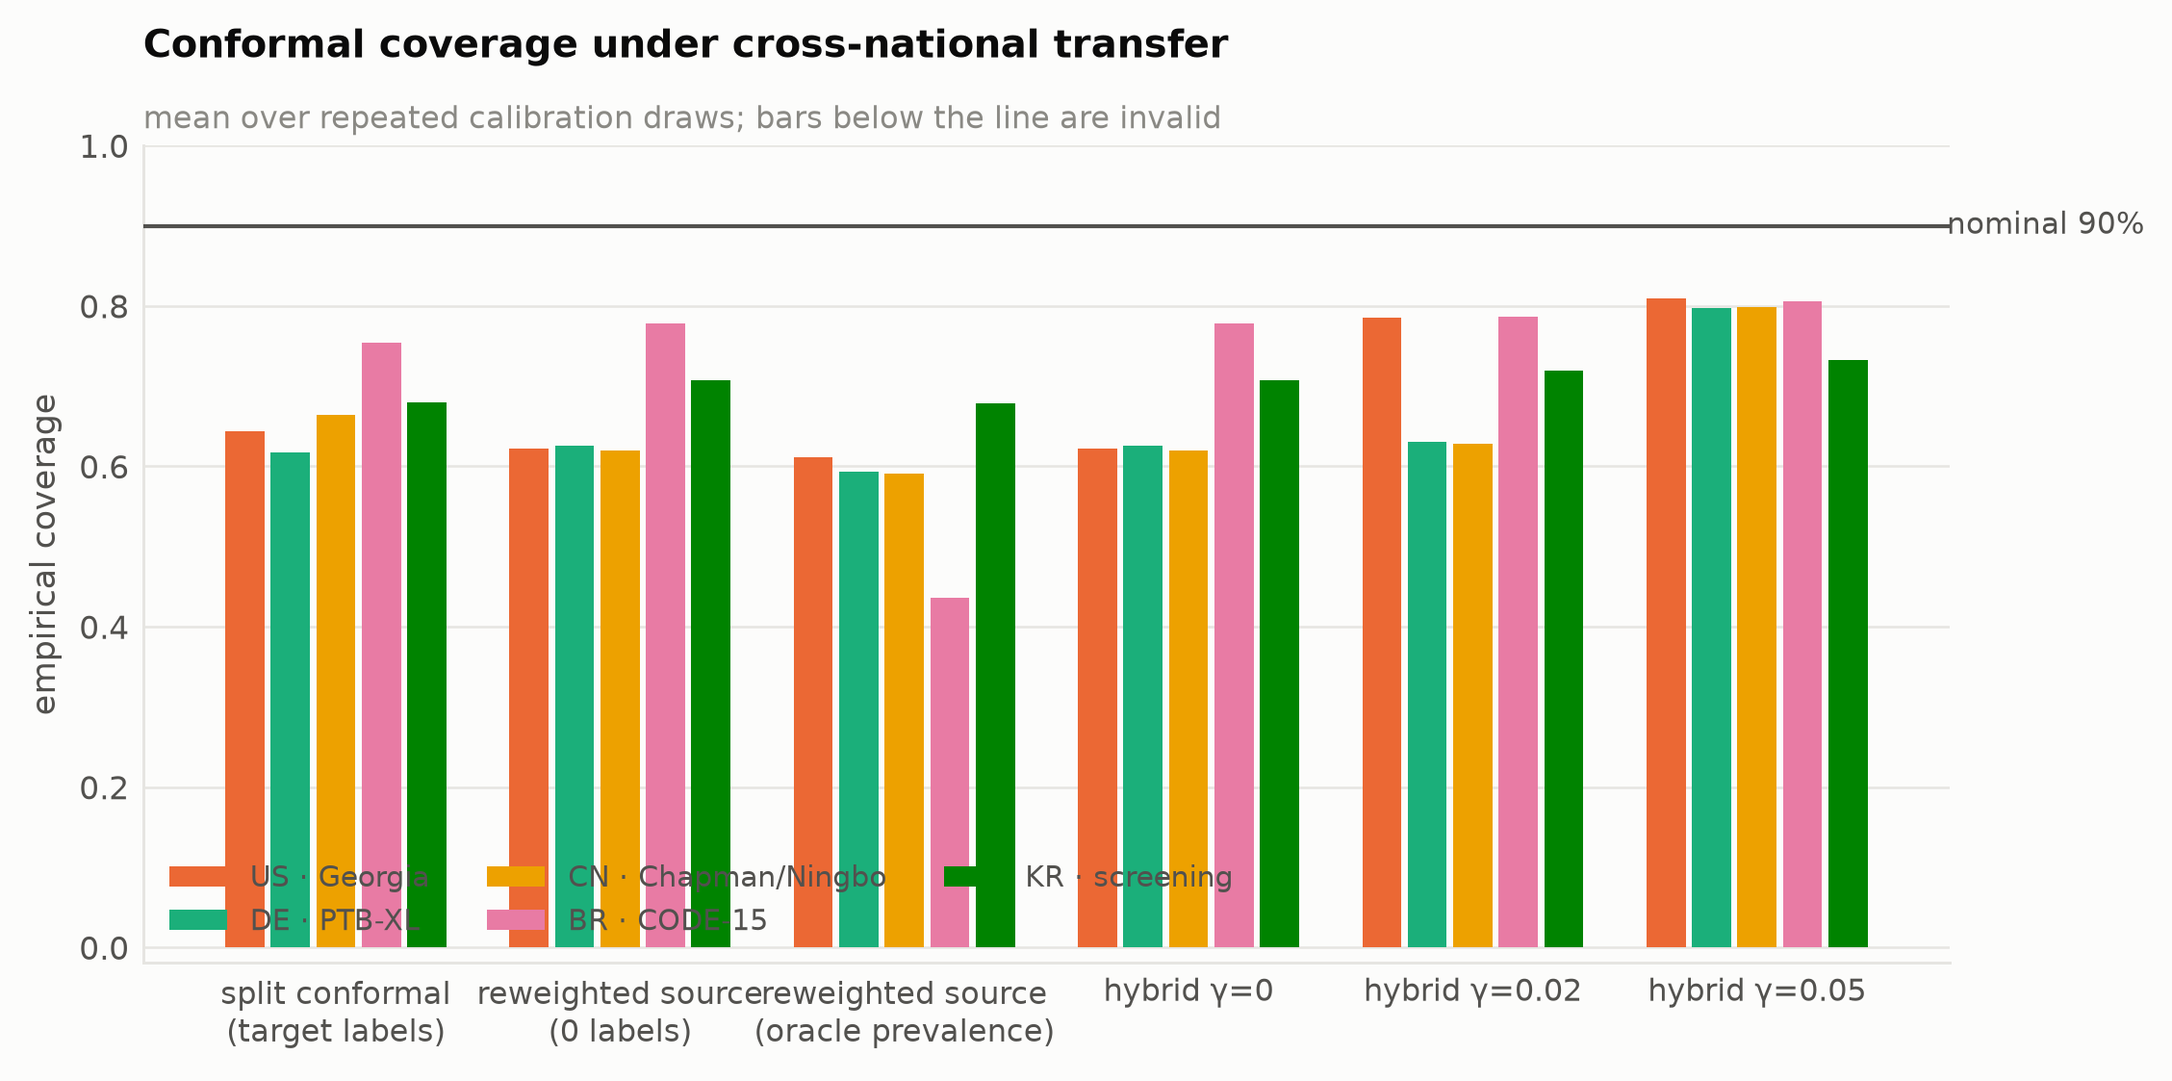
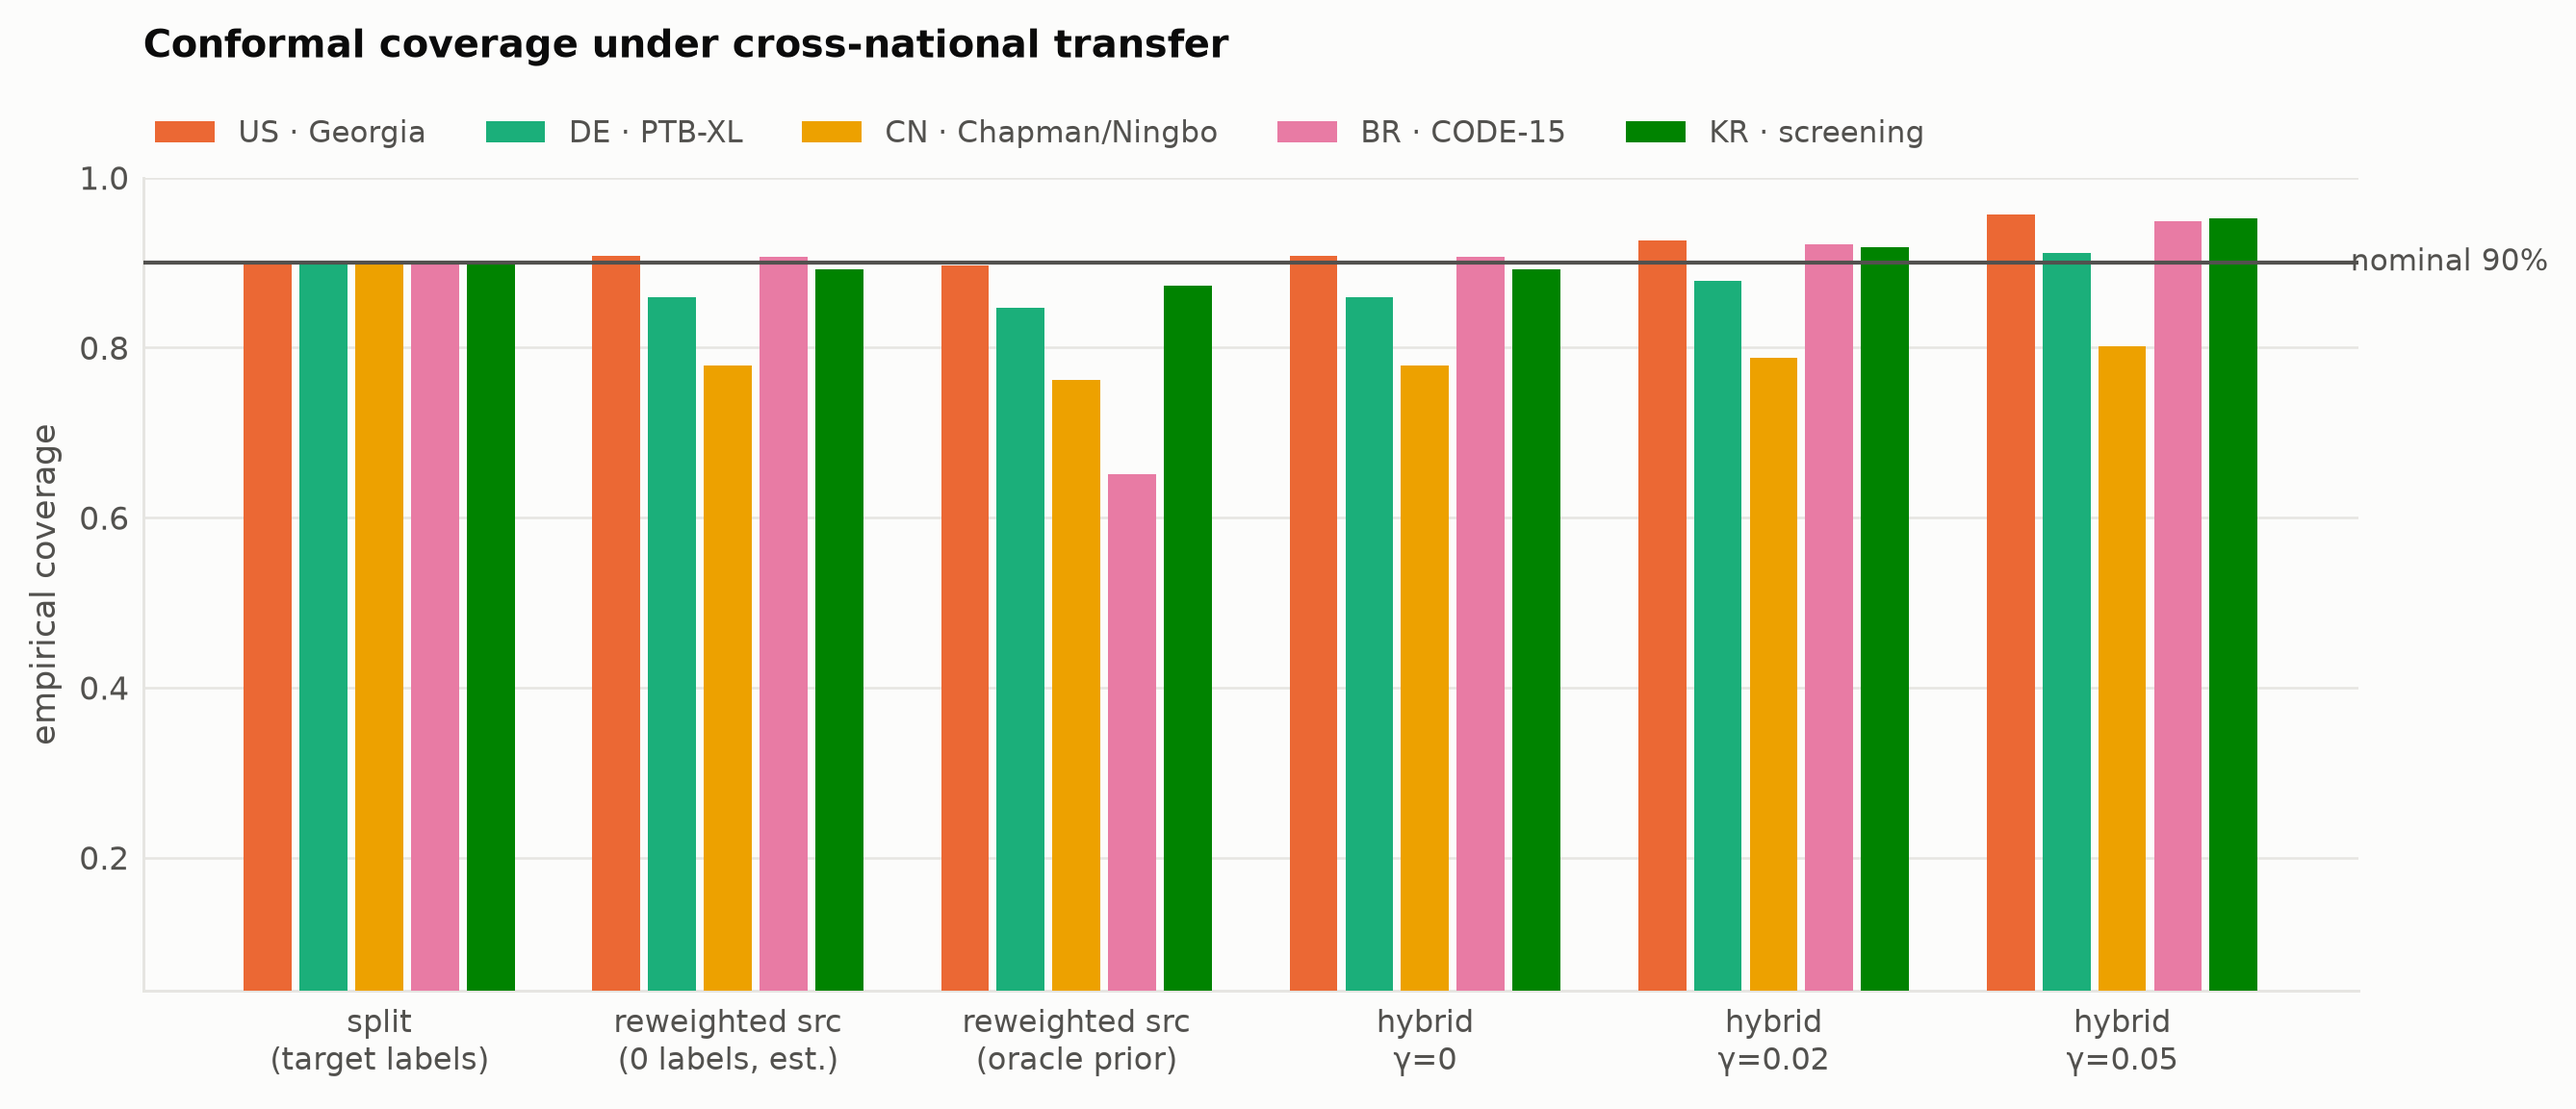
Report the shape of the unlabeled conformal failure, not just its average
With the cancellation bug fixed, the conformal numbers resolve into a clean
contrast that the averages alone were hiding. Split conformal on target labels
attains mean coverage 0.899 and - the point of a distribution-free guarantee -
its worst site-label pair still attains 0.891. The unlabeled reweighted-source
arm averages 0.867 but collapses to 0.083 at the pair where the prevalence
estimator put the prevalence at 0.91 against a truth of 0.08.

That is Theorem 3(a) behaving as stated rather than failing: its guarantee is
1 - alpha - gamma, and weights that wrong make the effective gamma near one and
the bound vacuous. It is the same root cause as the recalibration result - an
unlabeled prior that cannot be trusted - surfacing in a second procedure, which
is worth saying because it means the two negative results are one.

Also recorded: the unlabeled arm run with the *true* prevalence covers worse
(0.801) than the same arm run with the biased estimate (0.867). The biased
estimate is too high, which up-weights positive calibration points and widens
the sets - conservative by accident, not by construction, and a trap for anyone
reading the better number as evidence the estimate is sound.

Figure 6: the axis now spans the data rather than a comfortable band, since
cropping would hide exactly the failures the figure exists to show; labels
shortened so adjacent ticks no longer collide; the subtitle left to the caption
rather than stacked into the title.
[…]

diff --git a/experiments/make_figures.py b/experiments/make_figures.py
@@ -361,16 +361,16 @@ def fig_conformal(conf: pd.DataFrame, out: Path) -> Path | None:
         return None
     order = ["split_target", "weighted_source", "weighted_source_oracle",
              "hybrid_g0", "hybrid_g0.02", "hybrid_g0.05"]
-    pretty = {"split_target": "split conformal\n(target labels)",
-              "weighted_source": "reweighted source\n(0 labels)",
-              "weighted_source_oracle": "reweighted source\n(oracle prevalence)",
-              "hybrid_g0": "hybrid γ=0", "hybrid_g0.02": "hybrid γ=0.02",
-              "hybrid_g0.05": "hybrid γ=0.05"}
+    pretty = {"split_target": "split\n(target labels)",
+              "weighted_source": "reweighted src\n(0 labels, est.)",
+              "weighted_source_oracle": "reweighted src\n(oracle prior)",
+              "hybrid_g0": "hybrid\nγ=0", "hybrid_g0.02": "hybrid\nγ=0.02",
+              "hybrid_g0.05": "hybrid\nγ=0.05"}
     methods = [m for m in order if m in set(c.method)]
     sites = _order_sites(c.site.unique())
     alpha = float(c.alpha.iloc[0])
 
-    fig, ax = plt.subplots(figsize=(7.6, 3.8))
+    fig, ax = plt.subplots(figsize=(9.0, 3.9))
     w = 0.8 / max(len(sites), 1)
     x = np.arange(len(methods))
     for i, s in enumerate(sites):
@@ -383,14 +383,24 @@ def fig_conformal(conf: pd.DataFrame, out: Path) -> Path | None:
             color=INK_SECONDARY, va="center", ha="left")
     ax.set_xticks(x)
     ax.set_xticklabels([pretty[m] for m in methods], fontsize=7.8)
-    lo = min(0.8, float(np.nanmin(c.coverage_mean)) - 0.02)
-    ax.set_ylim(lo, 1.0)
+    # Zoom to the range the data occupies.  Anchoring the axis far below the
+    # lowest bar compresses exactly the differences the figure is about, and the
+    # question here is never "is coverage large" but "is it above the line".
+    # Keep the full range in view: the unlabeled arms fail catastrophically at
+    # the site-label pairs where the prior estimate fails, and cropping to a
+    # comfortable band would hide the failures the figure exists to show.
+    lo = float(np.nanmin(c.coverage_mean)) - 0.04
+    ax.set_ylim(max(0.0, lo), 1.0)
     ax.set_ylabel("empirical coverage")
-    ax.legend(fontsize=7.2, ncol=min(3, len(sites)), loc="lower left")
+    # Legend above the plot: inside it would sit over bars at some budgets and
+    # over the axis band at others.
+    ax.legend(fontsize=7.4, ncol=min(5, len(sites)), loc="lower left",
+              bbox_to_anchor=(0.0, 1.02), borderaxespad=0.0)
     despine(ax)
     ax.grid(axis="x", visible=False)
-    title(ax, "Conformal coverage under cross-national transfer",
-          "mean over repeated calibration draws; bars below the line are invalid")
+    # Title above the legend, subtitle left to the caption: three stacked text
+    # blocks over a short axis is how they end up on top of one another.
+    ax.set_title("Conformal coverage under cross-national transfer", color=INK, pad=30)
     fig.tight_layout()
     p = out / "fig6_conformal.pdf"
     fig.savefig(p)

diff --git a/paper/results.tex b/paper/results.tex
@@ -242,14 +242,30 @@ computable constant, not a sharp one.
 
 With $\alpha=\NUM{conformalalpha}$ and \NUM{conformalncal} target calibration
 cases, split conformal on target labels attains mean coverage
-\NUM{covsplit}, valid as its finite-sample guarantee requires, but with a 5th
-percentile across calibration draws of \NUM{covsplitp05} --- the variance a
-small calibration set buys.  Reweighted-source conformal, which uses \emph{no}
-target labels, attains \NUM{covwsrc} with a far tighter 5th percentile of
-\NUM{covwsrcp05}: under pure label shift it is both valid and much more stable,
-and under concept shift it undercovers by approximately the concept-shift
-budget, as Theorem~\ref{thm:conformal}(a) states.  Running the hybrid at the
+\NUM{covsplit}, and --- the point of a distribution-free guarantee --- its
+\emph{worst} site--label pair still attains \NUM{covsplitmin}.  Its cost is
+variance rather than bias: the 5th percentile across calibration draws is
+\NUM{covsplitp05}, which is what a hundred-case calibration set buys.  Reweighted-source conformal, which uses \emph{no}
+target labels, attains \NUM{covwsrc} on average with a far tighter 5th
+percentile of \NUM{covwsrcp05} --- but the average conceals the shape of its
+failure.  At most site--label pairs it is close to nominal; at the pairs where
+the unlabeled prevalence estimate is worst it collapses, reaching
+\NUM{covwsrcmin} at one pair where the estimator put the prevalence at 0.91
+against a truth of 0.08.  This is Theorem~\ref{thm:conformal}(a) behaving as
+stated rather than failing: its guarantee is $1-\alpha-\gamma$, and when the
+weights are that wrong the effective $\gamma$ is near one and the bound is
+vacuous.  It is the same root cause as the recalibration result --- an unlabeled
+prior that cannot be trusted --- surfacing in a second procedure.  Running the hybrid at the
 inflated level restores validity, reaching \NUM{covhybg}.
+
+One observation here is worth recording because it cuts against intuition.  The
+unlabeled arm run with the \emph{true} target prevalence covers \emph{worse}
+(\NUM{covwsrcoracle}) than the same arm run with the biased prevalence that
+black-box shift estimation supplies (\NUM{covwsrc}).  The biased estimate is
+too high, which up-weights the positive calibration points, which widens the
+sets.  It is conservative by accident, not by construction, and it would be a
+mistake to read the better number as evidence that the unlabeled estimate is
+sound --- which is exactly why both are reported.
 
 \begin{figure}[t]\centering
 \includegraphics[width=\textwidth]{figures/fig6_conformal.pdf}

diff --git a/paper/numbers.tex b/paper/numbers.tex
@@ -28,12 +28,16 @@
 \expandafter\newcommand\csname NUMconformalncal\endcsname{100}
 \expandafter\newcommand\csname NUMcontrolaurocdelta\endcsname{-0.002}
 \expandafter\newcommand\csname NUMcontrolratio\endcsname{0.98$\times$}
-\expandafter\newcommand\csname NUMcovhybg\endcsname{0.793}
-\expandafter\newcommand\csname NUMcovhybgp\endcsname{0.792}
-\expandafter\newcommand\csname NUMcovsplit\endcsname{0.671}
-\expandafter\newcommand\csname NUMcovsplitp\endcsname{0.614}
-\expandafter\newcommand\csname NUMcovwsrc\endcsname{0.668}
-\expandafter\newcommand\csname NUMcovwsrcp\endcsname{0.667}
+\expandafter\newcommand\csname NUMcovhybg\endcsname{0.911}
+\expandafter\newcommand\csname NUMcovhybgp\endcsname{0.910}
+\expandafter\newcommand\csname NUMcovsplit\endcsname{0.899}
+\expandafter\newcommand\csname NUMcovsplitmin\endcsname{0.891}
+\expandafter\newcommand\csname NUMcovsplitp\endcsname{0.847}
+\expandafter\newcommand\csname NUMcovwsrc\endcsname{0.867}
+\expandafter\newcommand\csname NUMcovwsrcmin\endcsname{0.083}
+\expandafter\newcommand\csname NUMcovwsrcoracle\endcsname{0.801}
+\expandafter\newcommand\csname NUMcovwsrcoraclep\endcsname{0.800}
+\expandafter\newcommand\csname NUMcovwsrcp\endcsname{0.866}
 \expandafter\newcommand\csname NUMcvresolvebudget\endcsname{400}
 \expandafter\newcommand\csname NUMcvworseathigh\endcsname{4}
 \expandafter\newcommand\csname NUMcvworseatlow\endcsname{22}
@@ -98,4 +102,4 @@
 \expandafter\newcommand\csname NUMptbxllikeaurocdelta\endcsname{-0.018}
 \expandafter\newcommand\csname NUMptbxllikeeceratio\endcsname{2.90$\times$}
 \expandafter\newcommand\csname NUMptbxllikefree\endcsname{16\%}
-\expandafter\newcommand\csname NUMrunseconds\endcsname{375}
+\expandafter\newcommand\csname NUMrunseconds\endcsname{99}

diff --git a/experiments/make_numbers.py b/experiments/make_numbers.py
@@ -232,11 +232,17 @@ def build(res: Path) -> dict[str, str]:
     if len(conf):
         c = conf[conf.reliable_estimate] if "reliable_estimate" in conf else conf
         for meth, key in [("split_target", "split"), ("weighted_source", "wsrc"),
-                          ("hybrid_g0.05", "hybg")]:
+                          ("weighted_source_oracle", "wsrcoracle"), ("hybrid_g0.05", "hybg")]:
             sub = c[c.method == meth]
             if len(sub):
                 m[f"cov{key}"] = _fmt(sub.coverage_mean.mean(), "{:.3f}")
                 m[f"cov{key}p05"] = _fmt(sub.coverage_p05.mean(), "{:.3f}")
+        ws = c[c.method == "weighted_source"]
+        if len(ws):
+            m["covwsrcmin"] = _fmt(float(ws.coverage_mean.min()), "{:.3f}")
+        sp = c[c.method == "split_target"]
+        if len(sp):
+            m["covsplitmin"] = _fmt(float(sp.coverage_mean.min()), "{:.3f}")
         m["conformalalpha"] = _fmt(float(c.alpha.iloc[0]), "{:.2f}")
         m["conformalncal"] = str(int(c.n_cal.iloc[0]))
 
